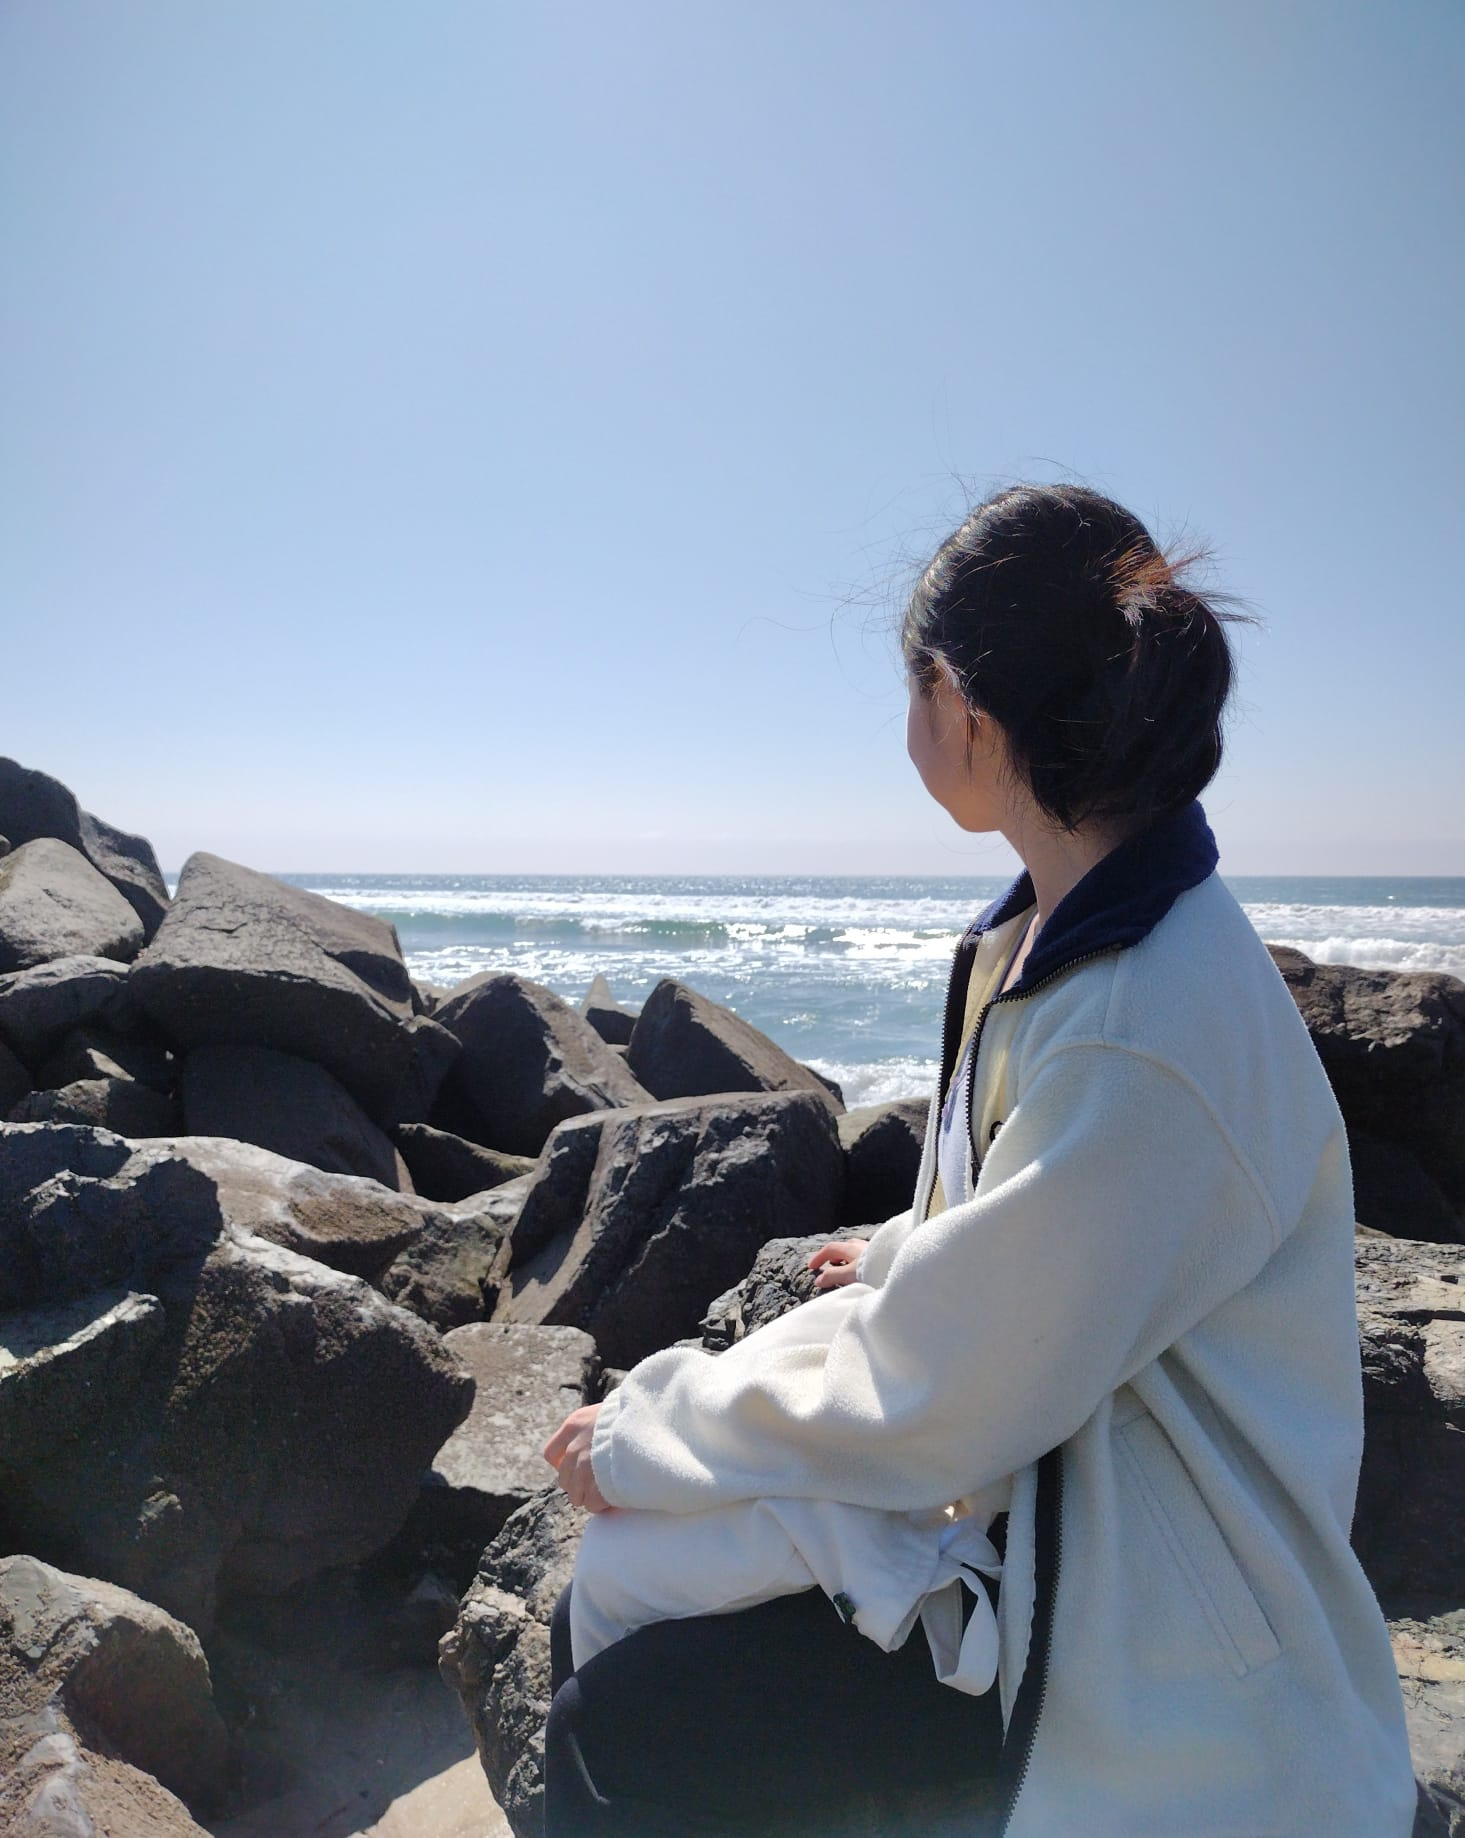
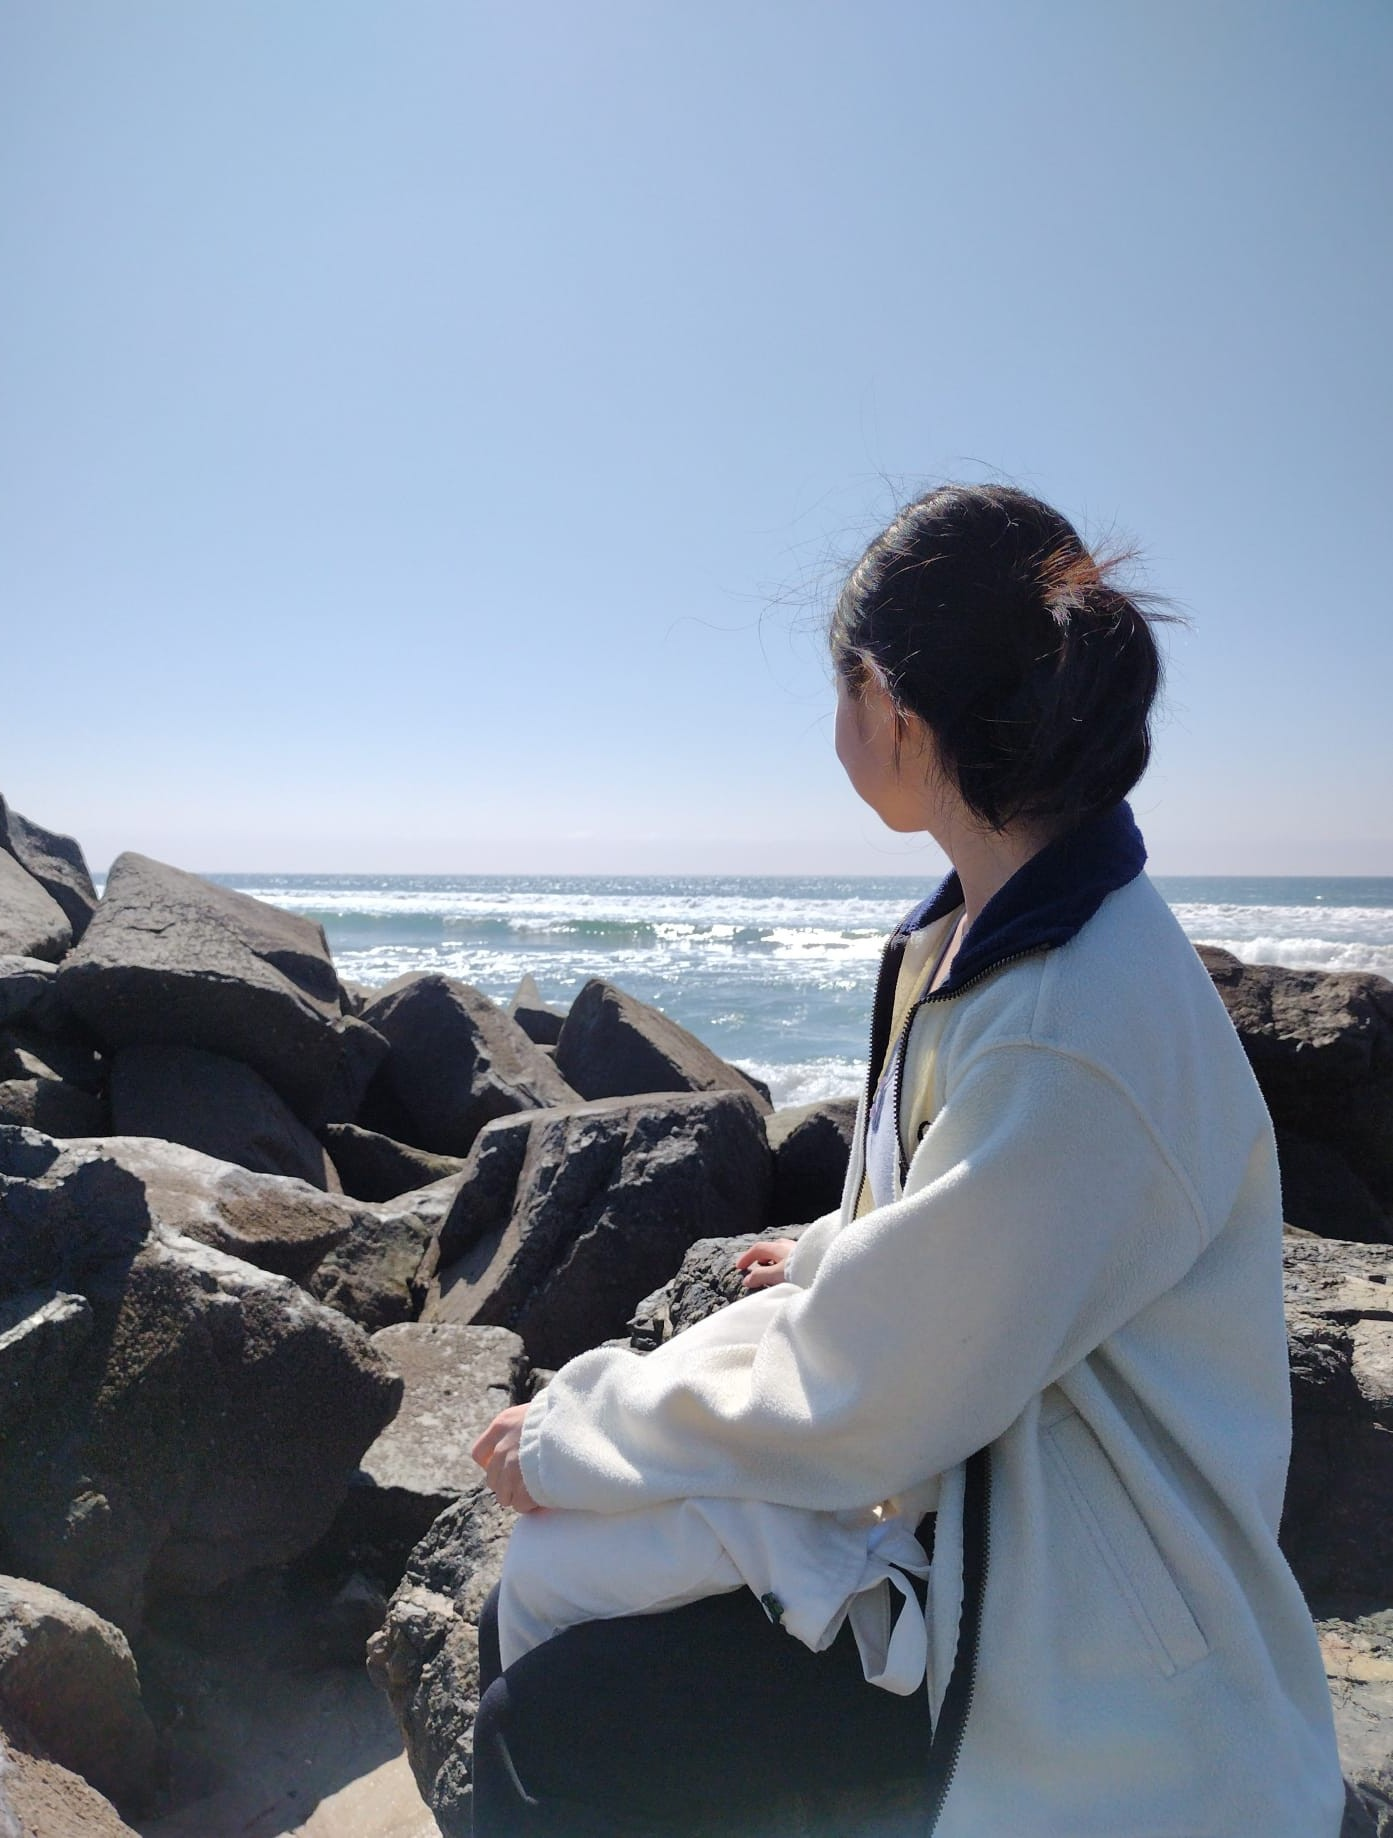
fixed gallery and portfolio image layout

Changed region(s): [[0.0, 0.2481, 0.9878, 1.0], [0.9261, 0.8683, 0.9878, 0.9304], [0.9569, 0.9614, 0.9878, 0.9924]]

diff --git a/about.html b/about.html
@@ -1,83 +1,94 @@
 <!DOCTYPE html>
 <html>
-  <head>
+  <body>
+    <head>
+  
+      <title>About</title>
+      <meta charset="utf-8" />
+      <meta http-equiv="X-UA-Compatible" content="IE=edge" />
+      <meta name="viewport" content="width=device-width, initial-scale=1" />
+  
+      <!-- link the webpage's stylesheet -->
+      <link rel="stylesheet" href="/style.css" />
+  
+      <!-- link the webpage's JavaScript file -->
+      <script src="/script.js" defer></script>
+  
+    </head>
+  
+    <div> <!-- used on all pages as the header image + nav bar -->
+      <img class = "header" src = "assets/fireflies.jpg" alt = "Image capture from Grave of the Fireflies (1988). Depicts scene of  Seita Yokokawa (protagonist) carrying Setsuko (younger sister) in a wagon across a rice paddy, with a blue sky in the background">     <nav>
+        <ul id = "navUL">
+          <li>
+            <a href = index.html>Home</a>
+          </li>
+          <li>
+            <a href = about.html>About Me</a>
+          </li>
+          <li>
+            <a href = fiber_arts.html>Fiber  Arts Portfolio</a>
+          </li>
+          <li>
+            <a href = code.html>Code Projects</a>
+          </li>
+        </ul>
+      </nav>
+    </div>
 
-    <title>About</title>
-    <meta charset="utf-8" />
-    <meta http-equiv="X-UA-Compatible" content="IE=edge" />
-    <meta name="viewport" content="width=device-width, initial-scale=1" />
-
-    <!-- link the webpage's stylesheet -->
-    <link rel="stylesheet" href="/style.css" />
-
-    <!-- link the webpage's JavaScript file -->
-    <script src="/script.js" defer></script>
-
-  </head>
-
-  <div> <!-- used on all pages as the header image + nav bar -->
-    <img class = "header" src = "assets/fireflies.jpg" alt = "Image capture from Grave of the Fireflies (1988). Depicts scene of  Seita Yokokawa (protagonist) carrying Setsuko (younger sister) in a wagon across a rice paddy, with a blue sky in the background">     <nav>
-      <ul id = "navUL">
-        <li>
-          <a href = index.html>Home</a>
-        </li>
-        <li>
-          <a href = about.html>About Me</a>
-        </li>
-        <li>
-          <a href = fiber_arts.html>Fiber  Arts Portfolio</a>
-        </li>
-        <li>
-          <a href = code.html>Code Projects</a>
-        </li>
-      </ul>
-    </nav>
-  </div>
-
-  <main>
-    <h3>wanna know more about me?</h3>
-    <p> you've come to the right place!</p>
-    <!-- image gallery -->
+    <main>
+      <h3>wanna know more about me?</h3>
+      <p> you've come to the right place!</p>
+      <!-- image gallery -->
       <div class = "gallery">
-        <img class = "aboutImg" src="assets/about/beach.jpg" alt = "Image of me at a beach in San Diego, facing the sea ocean with my side turned towards the camera">
-        <img class = "aboutImg"  src="assets/about/crashout.jpg" alt = "Selfie of myself and my friend, where I'm caught midway through moving my head towards the camera creating a blurred effect">
-        <img class = "aboutImg"  src="assets/about/outfit.jpg" alt = "Selfie of my outfit, wearing blue wide-leg jeans and a gray ringer tee, plus a shoulder bag.">
-        <img class = "aboutImg"  src="assets/about/rome.jpg" alt = "0.5 angle selfie of myself on one of the highest levels of the Colosseum, wearing a gray shirt and white pants. The uppper left corner shows a view of the insider of the Colosseum.">
+        <img class = "galleryImg" src="assets/about/beach.jpg" alt = "Image of me at a beach in San Diego, facing the sea ocean with my side turned towards the camera">
       </div>
-      <p>yep, that's me on the left.</p>
+      <div class = "gallery">
+        <img class = "galleryImg"  src="assets/about/crashout.jpg" alt = "Selfie of myself and my friend, where I'm caught midway through moving my head towards the camera creating a blurred effect">
+      </div>
+      <div class = "gallery">
+        <img class = "galleryImg"  src="assets/about/outfit.jpg" alt = "Selfie of my outfit, wearing blue wide-leg jeans and a gray ringer tee, plus a shoulder bag.">
+      </div>
+      <div class = "gallery">
+        <img class = "galleryImg"  src="assets/about/rome.jpg" alt = "0.5 angle selfie of myself on one of the highest levels of the Colosseum, wearing a gray shirt and white pants. The uppper left corner shows a view of the insider of the Colosseum.">
+      </div>
+  
+      <!-- command courtesy of Copilot-->
+      <div style = "clear: both;"></div>
+      
+      <p>yep, that's me.</p>
       <section>
       <!-- basic information about me -->
         <h3>well to start off, here's some basic information about me:</h3>
-        <ul class = "leftText">
-          <li>i am a rising high school senior (class of 2026) </li>
-          <li>i'm in MA (yes, the state of the american revolution 🦅🦅🦅🦅🦅)</li>
-          <li>i'm born and raised in the US, but my parents are from HK, so i speak cantonese at home</li>
-          <li>siblings: 🙅♀. pets: 🙅♀. but i would like to have a cat and/or dog when i'm older. </li>
+        <ul>
+          <li>  ✦  i am a rising high school senior (class of 2026) </li>
+          <li>  ✦  i'm in MA (yes, the state of the american revolution 🦅🦅)</li>
+          <li>  ✦  i'm born and raised in the US, but my parents are from HK, so i speak cantonese at home</li>
+          <li>  ✦  siblings: 🙅♀. pets: 🙅♀. but i would like to have a cat and/or dog when i'm older. </li>
         </ul>
       </section>
     <!-- recent activity -->
       <section>
         <h3>recent activities</h3>
-        <ul class = "leftText">
-          <li>almost complete with Girls Who Code's Pathways (2025) program! i've finished the Cybersecurity and Data Science + AI tracks' courses, and this personal website is in fact the first course in the Web Development track.</li>
-          <li>just completed MIT's Beaver Works Summer Institute (2025)! Took the Serious Games Development with AI course, and learned a lot of things about coding :) (lost a lot of sleep in the process though...)</li>
-          <li>barely surviving my AP summer work (best example of that is AP Chinese... because my chinese teacher wants us to do 6 separate assignments 🫠 </li>
+        <ul>
+          <li>  ☐  almost complete with Girls Who Code's Pathways (2025) program! i've finished the Cybersecurity and Data Science + AI tracks' courses, and this personal website is in fact the first course in the Web Development track.</li>
+          <li>  ☑  just completed MIT's Beaver Works Summer Institute (2025)! Took the Serious Games Development with AI course, and learned a lot of things about coding :) (lost a lot of sleep in the process though...)</li>
+          <li>  ☒  barely surviving my AP summer work (best example of that is AP Chinese... because my chinese teacher wants us to do 6 separate assignments 🫠 </li>
         </ul>
       </section>
       <!-- fun facts -->
       <section >
-        <h3>interesting tidbits about me</h3>
-        <p>oh and yes this is the same as the info on my homepage, but not in java form :)</p>
+        <h3>more interesting tidbits about me</h3>
+        <p>and yes this is the same as the info on my homepage, but not in java form :)</p>
         <ul >
-          <li>i do taekwondo recreationally, and i'm a purple belt.</li>
-          <li>one of my hobbies is fiber arts (which includes crocheting, knitting, and sewing. i like to call it the "trifecta" of fiber arts lol. you can check out some of my stuff on my fiber arts portfolio page!</li>
-          <li>the goal is to go into computational biology. obviously this isn't the most widespread major, if a school i'm applying to doesn't have it, i'll double major biology and computer science.</li>
-          <li>i wouldn't say i'm the most avid linguist, but i speak english, cantonese (at home), mandarin (from school).</li>
-          <li>and then for coding, i'm most familiar with java (thank you ap csa), python (bwsi and girls who code), html, css (obviously, since i am making a website with the languages after all)</li>
-          <li>and of course, i had to struggle with unity for a good while in bwsi and so i can say i'm 10% good at c#. mostly (entirely) because of java though.</li>
+          <li>  ✦  i do taekwondo recreationally, and i'm a purple belt.</li>
+          <li>  ✦  one of my hobbies is fiber arts (which includes crocheting, knitting, and sewing. i like to call it the "trifecta" of fiber arts lol). you can check out some of my stuff on my fiber arts portfolio page!</li>
+          <li>  ✦  the goal is to go into computational biology. obviously this isn't the most widespread major, if a school i'm applying to doesn't have it, i'll double major biology and computer science.</li>
+          <li>  ✦  i wouldn't say i love learning lagnuages, but i speak english, cantonese (at home), mandarin (from school). i also used to try to learn japanese...but school got a little too hard for that.</li>
+          <li>  ✦  and then for coding, i'm most familiar with java (thank you ap csa), python (bwsi and girls who code), html, css (obviously, since i am making a website with the languages after all)</li>
+          <li>  ✦  and of course, i had to struggle with unity for a good while in bwsi and so i can say i'm 10% good at c#. mostly (entirely) because of java though.</li>
         </ul>
       </section>
-      <p>⋘ loading... ⋙</p>
-   </main>  
+        <p>⋘ loading... ⋙</p>
+     </main>  
   </body>
 </html>

diff --git a/fiber_arts.html b/fiber_arts.html
@@ -53,7 +53,7 @@
         <section>
           <h3>Pillowcase</h3>
           <p class = "centerText"> Spring-Summer 2024 | on and off project, ~2 months</p>
-          <img src = assets/fiber-portfolio/pillowcase.jpg class = "portfolioImg" alt = "Image of a small (~14x14in) pillow with an elaborate crocheted green and white motif.>
+          <img src = assets/fiber-portfolio/pillowcase.jpg class = "portfolioImg" alt = "Image of a small (~14x14in) pillow with an elaborate crocheted green and white motif.">
           <p></p>
           <a href = "https://pin.it/O0OPUqFLz">alpha pattern (Pinterest)</a>
         </section>
@@ -69,18 +69,18 @@
 
         <!-- code courtesy of W3 Schools instructions -->
         <div class = "gallery">
-          <img src="assets/fiber-portfolio/blobert.jpg" class = "portfolioImg" alt = "An image of a crocheted (amigurumi) dragon using chinelle yarn. The dragon's body is white, with ears, horns and wings of gray.">
+          <img src="assets/fiber-portfolio/blobert.jpg" class = "galleryImg" alt = "An image of a crocheted (amigurumi) dragon using chinelle yarn. The dragon's body is white, with ears, horns and wings of gray.">
           </a>
           <div class="desc">amigurumi dragon that i love dearly... (named Blobert)</div>
         </div>
 
         <div class = "gallery">
-          <img src="assets/fiber-portfolio/shirt.jpg" class = "portfolioImg" alt = "An image of the back of a white T-shirt, with a blue painted design I made. Design includes a large whale, two jellyfish, and a water motif.">
+          <img src="assets/fiber-portfolio/shirt.jpg" class = "galleryImg" alt = "An image of the back of a white T-shirt, with a blue painted design I made. Design includes a large whale, two jellyfish, and a water motif.">
           <div class="desc">the back of a T-shirt that I painted</div>
         </div>
 
         <div class = "gallery">
-          <img src="assets/fiber-portfolio/bag.jpg" class = "portfolioImg" alt = "A small crescent-shaped bag made with patches of fabric, in beige, blue, and purple. A small teal panda keychain is hanging off of its zipper.">
+          <img src="assets/fiber-portfolio/bag.jpg" class = "galleryImg" alt = "A small crescent-shaped bag made with patches of fabric, in beige, blue, and purple. A small teal panda keychain is hanging off of its zipper.">
           <div class="desc">patchwork crossbody/mini bag made entirely of fabric scraps (excluding notions)</div>
         </div>
         

diff --git a/style.css b/style.css
@@ -68,6 +68,13 @@ section {
   margin-top: 10px;
   margin-bottom: 10px;
 }
+.subSection {
+  margin-top: 10px;
+  margin-bottom: 10px;
+  margin-right: 30%;
+  margin-left: 30%;
+  background-color: #d4d0d8;
+}
 
 /*STYLE PORTFOLIOS*/
 section a {
@@ -84,21 +91,22 @@ section a:hover, a:active {
 .portfolioImg {
   display: inline-block;
   margin: auto;
-  width: 30%;
-  height: 25%;
+  height: 300px;
+  width: auto;
+  object-fit: cover;
   margin: 10px;
   border-radius: 10px;
 }
 /* code adapted from W3Schools example/tutorial*/
 div.gallery {
   display: inline;
-  margin: 5px;
+  margin: 3px;
   border: 2px groove #ffffff;
   background-color: #d4d0d8;
   float: left;
   border-radius: 20px;
-  width: 25%;
-  height: 50%;
+  width: 23%;
+  height: auto;
 }
 div.desc {
   padding: 15px;
@@ -117,7 +125,7 @@ p{
 }
 .leftText {
   text-align: left;
-  margin-left: 20px
+  margin-left: 20px;
 }
 .rightText{
   text-align: right;
@@ -141,10 +149,10 @@ section p {
   text-align: left;
 }
 
-.aboutImg {
+.galleryImg {
   margin: auto;
-  width: 70%;
-  height: 70%;
+  width: 90%;
+  height: auto;
   margin: 5px;
   border-radius: 10px;
 }

diff --git a/index.html b/index.html
@@ -41,9 +41,13 @@
     <main>
       <section>
         <h3 class = "leftText"> ⋆.˚✮🎧✮˚.⋆ 你好，我是梁靜悠 . . .</h3>
+        <p class = "leftText">  ⋆  hello, i'm jana...</p>
         <img class = "round" src = "assets/profile.jpg" alt = "Selfie. Self-description: I have black medium length hair with bangs, and I'm taking a mirror selfie wearing a white blouse." height = 200>
-        <p class = "rightText">hello, i'm jana 🇭🇰 !</p>
-        <p class = "rightText"> current mood: <img class = "round" src = "assets/snoopy.jpg" alt = "Doodle of Snoopy, at 0.5 camera angle. Facial expression like the Megamind meme. Found on Pinterest." width = 80 height = 80></p>
+
+        <section class = subSection>
+          <p class = "centerText"> current mood: <img class = "round" src = "assets/snoopy.jpg" alt = "Doodle of Snoopy, at 0.5 camera angle. Facial expression like the Megamind meme. Found on Pinterest." width = 80 height = 80></p>
+        </section>
+        
       </section>
       
       <section >
